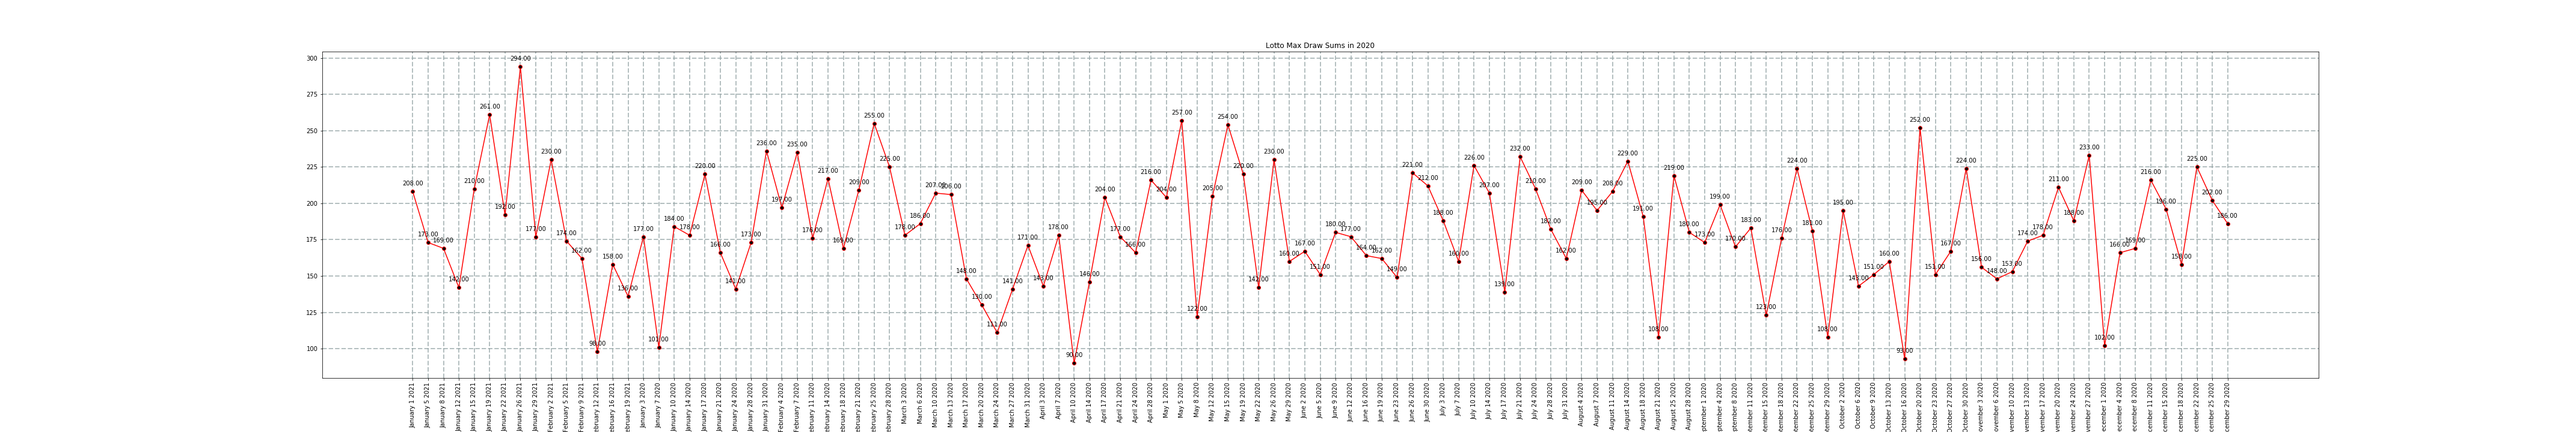
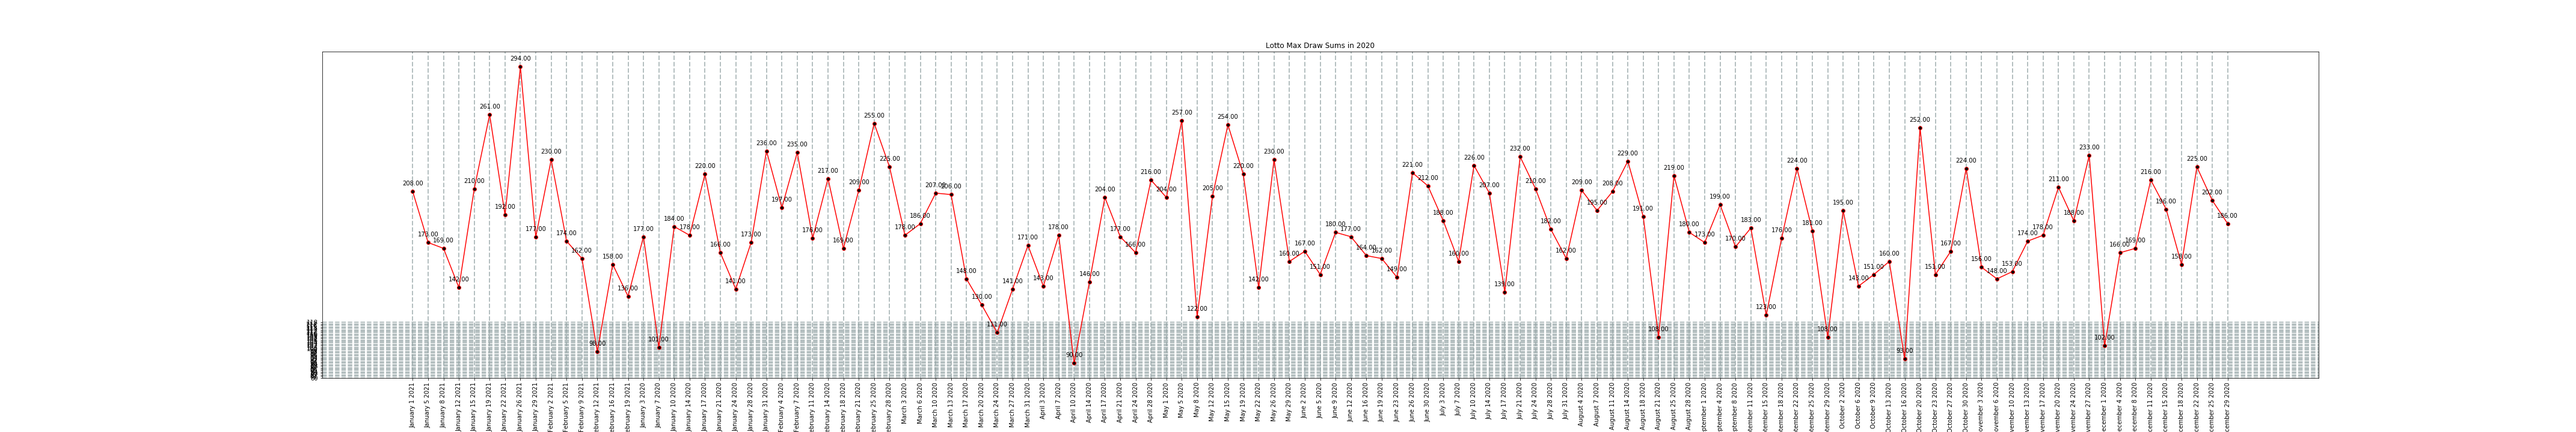
added graphs modified

Changed region(s): [[0.0931, 0.7333, 0.9003, 0.8861]]

diff --git a/predictor.py b/predictor.py
@@ -68,12 +68,15 @@ sums.reverse()
 
 import numpy as np
 import matplotlib.pyplot as plt
-plt.figure(figsize = (len(draw_dict.keys())*3/4, 10)) 
+plt.figure(figsize = (len(draw_dict.keys()), 10)) 
 plt.title("Lotto Max Draws in "+str(start)) 
 dates=list(draw_dict.keys())
 x = [get_timestamp(x) for x in dates]
 y=list(draw_dict.values())
 plt.xticks(rotation=90)
+sx=range(1,51)
+plt.yticks(np.arange(min(sx), max(sx)+1, 1.0))
+#plt.yticks(np.arange(min(y), max(y)+1, 1.0))
 #plt.plot(draw_dates,winning_numbers,marker='o',markerfacecolor="black")
 for i in range(7):
     for x1,y1 in zip(x,y):
@@ -96,6 +99,7 @@ plt.figure(figsize = (len(draw_dates)/2, 10))
 plt.grid(color='#95a5a6', linestyle='--', linewidth=2, axis='y', alpha=0.7)
 plt.grid(color='#95a5a6', linestyle='--', linewidth=2, axis='x', alpha=0.7)
 plt.xticks(rotation=90)
+plt.yticks(np.arange(len(y)))
 plt.title("Lotto Max Draw Sums in "+str(start)) 
 for x,y in zip(draw_dates,sums):
 
